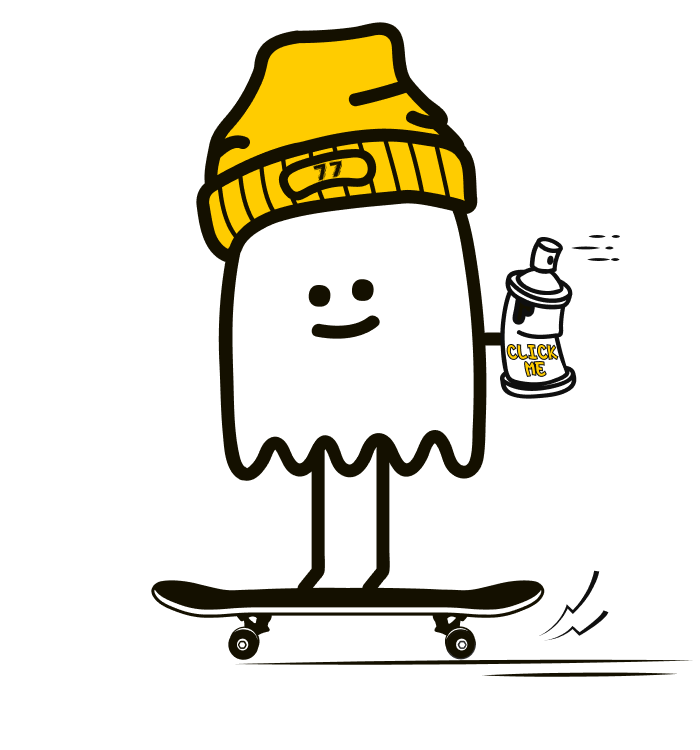
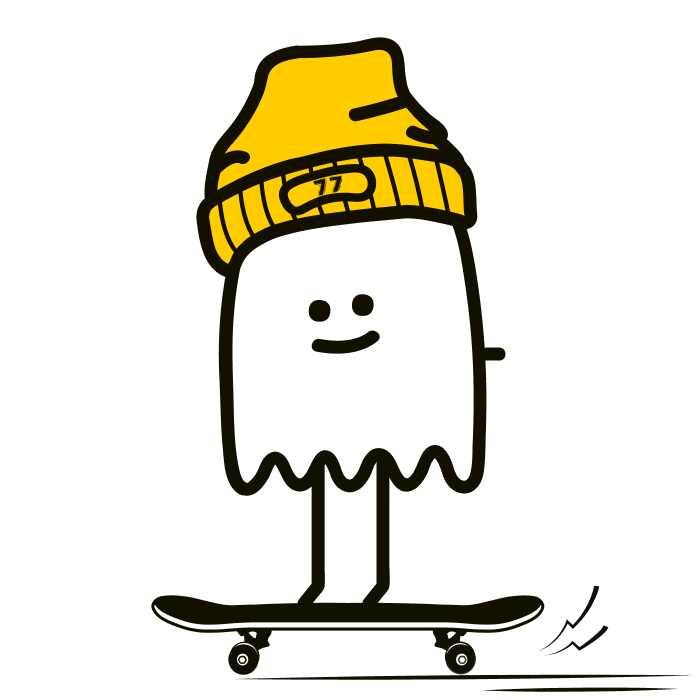
finish homepage animation

diff --git a/src/containers/HomePage/index.tsx b/src/containers/HomePage/index.tsx
@@ -1,30 +1,140 @@
-import React from 'react';
-import styled from 'styled-components';
+import React, { useState } from 'react';
+import styled, { keyframes } from 'styled-components';
 import backGround from '../../images/main_bg.png';
 import mainPicture from '../../images/mainPicture.png';
+import paintCan from '../../images/paint_can.png';
 import { sectionStyle } from '../../styles/styles';
+import Hello from '../../components/HomePage/Hello';
+
+const slideOut = keyframes`
+  0% {
+    transform: translateX(0);
+  }
+
+  100% {
+    transform: translateX(-100vw);
+  }
+`;
+
+const BGSlideOut = keyframes`
+  0% {
+    transform: translateX(0);
+  }
+
+  100% {
+    transform: translateX(-1200px);
+  }
+`;
+
+const shaking = keyframes`
+  0% { transform: rotate(0deg); }
+  5% { transform: rotate(5deg); }
+  10% { transform: rotate(0eg); }
+  15% { transform: rotate(-5deg); }
+  20% { transform: rotate(0deg); }
+  25% { transform: rotate(5deg); }
+  30% { transform: rotate(0eg); }
+  35% { transform: rotate(-5deg); }
+  40% { transform: rotate(0deg); }
+  100% { transform: rotate(0deg); }
+`;
 
 const MainWrapper = styled.div`
   ${sectionStyle}
 
-  background-image: url(${backGround});
-  background-repeat: no-repeat;
-  background-size: contain;
-  background-position: center;
+  display: flex;
+  align-items: center;
+  justify-content: center;
+  position: relative;
+
+  overflow: hidden;
+`;
+
+const BGWrapper = styled.div`
+  width: 200vw;
+  position: fixed;
+  display: flex;
+  flex-direction: row;
+  justify-content: flex-start;
+  position: absolute;
+  top: 0;
+  left: 0;
+  animation: ${BGSlideOut} 2s ease-in-out;
+  animation-fill-mode: forwards;
+`;
+
+const Background = styled.div`
+  height: calc(100vh - 80px);
+  width: 1200px;
+  overflow: hidden;
 
   display: flex;
   align-items: center;
   justify-content: center;
 `;
 
+const MainBGImage = styled.div`
+  height: inherit;
+  width: 100%;
+
+  background-image: url(${backGround});
+  background-size: contain;
+  background-position: center center;
+  background-repeat: no-repeat;
+`;
+
+const AvatarWrapper = styled.div`
+  position: relative;
+  animation: ${slideOut} 2s ease-in-out;
+  animation-fill-mode: forwards;
+`;
+
 const MainPicture = styled.img`
   max-height: 60vh;
 `;
 
+const PaintCanImg = styled.img`
+  max-height: 60vh;
+  position: absolute;
+  left: 0;
+  top: 0;
+  animation: ${shaking} 1s ease-in-out infinite;
+  cursor: pointer;
+`;
+
 const HomePage = () => {
+  const [isSliding, setIsSliding] = useState(false);
+  const [isBGSliding, setIsisBGSliding] = useState(false);
+
+  const handleMainPictureClick = () => {
+    setIsSliding(true);
+    setTimeout(() => {
+      setIsisBGSliding(true);
+    }, 500);
+  };
+
   return (
     <MainWrapper>
-      <MainPicture src={mainPicture} alt="main_picture" />
+      <BGWrapper
+        style={{ animationPlayState: isBGSliding ? 'running' : 'paused' }}
+      >
+        <Background>
+          <MainBGImage />
+        </Background>
+        <Background>
+          <Hello />
+        </Background>
+      </BGWrapper>
+      <AvatarWrapper
+        style={{ animationPlayState: isSliding ? 'running' : 'paused' }}
+      >
+        <MainPicture src={mainPicture} alt="main_picture" />
+        <PaintCanImg
+          src={paintCan}
+          onClick={handleMainPictureClick}
+          style={{ animationPlayState: isSliding ? 'paused' : 'running' }}
+        />
+      </AvatarWrapper>
     </MainWrapper>
   );
 };

diff --git a/src/components/HomePage/Hello/index.tsx b/src/components/HomePage/Hello/index.tsx
@@ -1,0 +1,66 @@
+import React from 'react';
+import styled from 'styled-components';
+import contactMeBg from '../../../images/rock_bg.png';
+import LinesLeft from '../../../images/lines_left.png';
+import LinesRight from '../../../images/lines_right.png';
+import HelloImage from '../../../images/hello.png';
+import { contentTextStyle } from '../../../styles/typography';
+
+const Wrapper = styled.div`
+  width: 100%;
+  height: calc(100vh - 80px);
+
+  display: flex;
+  flex-direction: column;
+  align-items: center;
+
+  position: relative;
+  background-image: url(${contactMeBg});
+  background-repeat: no-repeat;
+  background-size: contain;
+  background-position: center center;
+`;
+
+const ContactImg = styled.img`
+  height: inherit;
+`;
+
+const DecorationRow = styled.div`
+  ${contentTextStyle}
+
+  width: 100%;
+  display: flex;
+  flex-direction: row;
+  justify-content: space-between;
+  align-items: center;
+  text-align: center;
+
+  position: absolute;
+  bottom: 100px;
+  padding: 0 50px;
+  box-sizing: border-box;
+`;
+
+const Lines = styled.img`
+  width: 80px;
+  height: 30px;
+`;
+
+const Hello = () => {
+  return (
+    <Wrapper>
+      <ContactImg src={HelloImage} alt="hello" />
+      <DecorationRow>
+        <Lines src={LinesLeft} />
+        Welcome to my portfolio.
+        <br />
+        I’m a born Taiwan girl who with
+        <br />
+        the dream becoming a UI designer.
+        <Lines src={LinesRight} />
+      </DecorationRow>
+    </Wrapper>
+  );
+};
+
+export default Hello;

diff --git a/src/containers/ContactMe/index.tsx b/src/containers/ContactMe/index.tsx
@@ -1,8 +1,8 @@
 import React from 'react';
 import styled, { keyframes } from 'styled-components';
 import { sectionStyle } from '../../styles/styles';
-import ContactMeBg from '../../images/rock_bg.png';
-import ContactMeImage from '../../images/contact_me.png';
+import contactMeBg from '../../images/rock_bg.png';
+import contactMeImage from '../../images/contact_me.png';
 import LinesLeft from '../../images/lines_left.png';
 import LinesRight from '../../images/lines_right.png';
 import { secondaryTitleStyle } from '../../styles/typography';
@@ -15,7 +15,7 @@ const Wrapper = styled.div`
   align-items: center;
 
   position: relative;
-  background-image: url(${ContactMeBg});
+  background-image: url(${contactMeBg});
   background-size: contain;
   background-position: center center;
 `;
@@ -72,7 +72,7 @@ const Email = styled.a`
 const ContactMe = () => {
   return (
     <Wrapper>
-      <ContactImg src={ContactMeImage} alt="contact_me" />
+      <ContactImg src={contactMeImage} alt="contact_me" />
       <Email href="mailto: inchitun@hotmail.com">inchitun@hotmail.com</Email>
       <DecorationRow>
         <Lines src={LinesLeft} />

diff --git a/src/components/Header/index.tsx b/src/components/Header/index.tsx
@@ -16,7 +16,7 @@ const Wrapper = styled.div`
   display: flex;
   justify-content: space-between;
   align-items: center;
-  z-index: 6;
+  z-index: 4;
 `;
 
 const Image = styled.img`

diff --git a/src/styles/styles.tsx b/src/styles/styles.tsx
@@ -1,4 +1,3 @@
-import styled from 'styled-components';
 import { css } from 'styled-components';
 import { HEADER_HEIGHT } from '../constants/constants';
 
